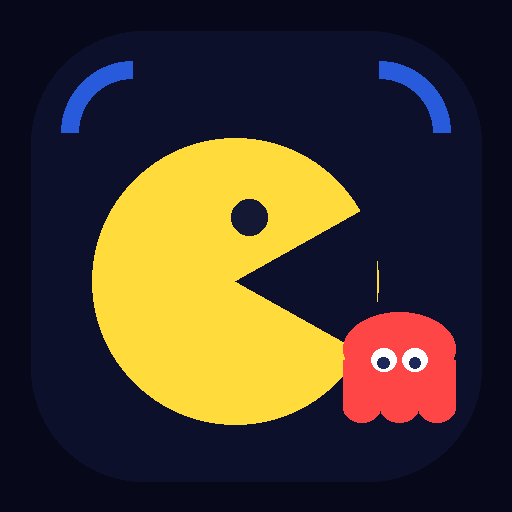
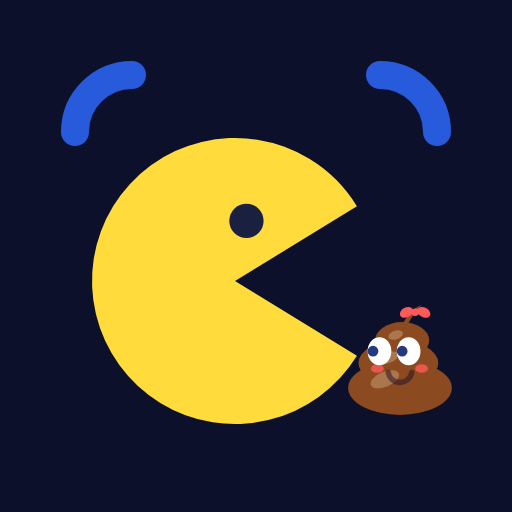
Draw enemies as cute canvas poop characters with distinct accents.

diff --git a/game.js b/game.js
@@ -2009,55 +2009,125 @@
     ctx.restore();
   }
 
+  function poopBrown(id) {
+    if (id === "chase") return "#8b4a1f";
+    if (id === "ambush") return "#7a3d16";
+    if (id === "random") return "#9a5a28";
+    if (id === "patrol") return "#6a3418";
+    return "#8b4a1f";
+  }
+
+  function poopPhase(e) {
+    const i = ENEMY_META.findIndex((m) => m.id === e.id);
+    return (i < 0 ? 0 : i) * 1.35;
+  }
+
+  function drawPoopBody(r, body) {
+    ctx.fillStyle = "rgba(20,16,28,0.22)";
+    ctx.beginPath();
+    ctx.ellipse(0, r * 0.82, r * 0.72, r * 0.16, 0, 0, Math.PI * 2);
+    ctx.fill();
+    ctx.fillStyle = body;
+    ctx.beginPath();
+    ctx.ellipse(0, r * 0.48, r * 0.96, r * 0.5, 0, 0, Math.PI * 2);
+    ctx.fill();
+    ctx.beginPath();
+    ctx.ellipse(-r * 0.03, r * 0.02, r * 0.74, r * 0.42, 0, 0, Math.PI * 2);
+    ctx.fill();
+    ctx.beginPath();
+    ctx.ellipse(r * 0.04, -r * 0.4, r * 0.5, r * 0.34, 0, 0, Math.PI * 2);
+    ctx.fill();
+    ctx.beginPath();
+    ctx.moveTo(r * 0.02, -r * 0.66);
+    ctx.quadraticCurveTo(r * 0.2, -r * 0.98, r * 0.4, -r * 1.06);
+    ctx.quadraticCurveTo(r * 0.22, -r * 0.86, r * 0.1, -r * 0.62);
+    ctx.closePath();
+    ctx.fill();
+    ctx.fillStyle = "rgba(255,230,200,0.28)";
+    ctx.beginPath();
+    ctx.ellipse(-r * 0.28, r * 0.32, r * 0.28, r * 0.14, -0.4, 0, Math.PI * 2);
+    ctx.fill();
+    ctx.beginPath();
+    ctx.ellipse(-r * 0.22, -r * 0.08, r * 0.2, r * 0.1, -0.35, 0, Math.PI * 2);
+    ctx.fill();
+    ctx.beginPath();
+    ctx.ellipse(-r * 0.08, -r * 0.5, r * 0.14, r * 0.08, -0.3, 0, Math.PI * 2);
+    ctx.fill();
+  }
+
+  function drawPoopBow(r, color) {
+    ctx.fillStyle = color;
+    const cx = r * 0.28, cy = -r * 0.92;
+    ctx.beginPath();
+    ctx.ellipse(cx - r * 0.16, cy, r * 0.13, r * 0.09, -0.5, 0, Math.PI * 2);
+    ctx.fill();
+    ctx.beginPath();
+    ctx.ellipse(cx + r * 0.16, cy, r * 0.13, r * 0.09, 0.5, 0, Math.PI * 2);
+    ctx.fill();
+    ctx.beginPath();
+    ctx.arc(cx, cy, r * 0.07, 0, Math.PI * 2);
+    ctx.fill();
+  }
+
   function drawEnemy(e) {
     const ox = -camX * tile, oy = -camY * tile;
     const px = ox + (e.x + 0.5) * tile;
     const py = oy + (e.y + 0.5) * tile;
-    if (px < -tile || py < -tile || px > viewW + tile || py > viewH + tile) return;
+    if (px < -tile || py < -tile * 1.2 || px > viewW + tile || py > viewH + tile) return;
     const r = tile * 0.4;
     const frightened = powerT > 0 && !e.eaten;
     const blink = frightened && powerT < 2.2 && Math.floor(flash * 8) % 2 === 0;
-    let body = e.color;
-    if (e.eaten) body = "rgba(220,230,255,0.0)";
-    else if (frightened) body = blink ? "#fff4d0" : "#6aa8ff";
+    let body = poopBrown(e.id);
+    if (frightened) body = blink ? "#fff4d0" : "#8ec6ff";
+    const bounce = (e.eaten || prefersReducedMotion()) ? 0 : Math.sin(flash * 7 + poopPhase(e)) * r * 0.14;
     ctx.save();
-    ctx.translate(px, py);
+    ctx.translate(px, py + bounce);
     if (!e.eaten) {
-      ctx.fillStyle = body;
+      drawPoopBody(r, body);
+      if (!frightened) drawPoopBow(r, e.color);
+      ctx.globalAlpha = frightened ? 1 : 0.8;
+      ctx.fillStyle = frightened ? "rgba(120,90,140,0.35)" : e.color;
       ctx.beginPath();
-      ctx.arc(0, -r * 0.1, r, Math.PI, 0);
-      ctx.lineTo(r, r * 0.75);
-      const scallop = 3;
-      for (let i = scallop; i >= 0; i--) {
-        const sx = -r + (i / scallop) * (r * 2);
-        const sy = r * (i % 2 === 0 ? 0.75 : 0.4);
-        ctx.lineTo(sx, sy);
-      }
-      ctx.closePath();
+      ctx.ellipse(-r * 0.42, r * 0.12, r * 0.12, r * 0.08, 0, 0, Math.PI * 2);
+      ctx.ellipse(r * 0.4, r * 0.12, r * 0.12, r * 0.08, 0, 0, Math.PI * 2);
       ctx.fill();
-      // smile when not frightened
-      if (!frightened) {
-        ctx.strokeStyle = "rgba(40,20,40,0.35)";
-        ctx.lineWidth = 1.6;
+      ctx.globalAlpha = 1;
+      if (frightened) {
+        ctx.strokeStyle = "#203060";
+        ctx.lineWidth = Math.max(1.4, r * 0.1);
+        ctx.lineCap = "round";
         ctx.beginPath();
-        ctx.arc(0, r * 0.15, r * 0.28, 0.15, Math.PI - 0.15);
+        ctx.moveTo(-r * 0.42, -r * 0.5);
+        ctx.lineTo(-r * 0.14, -r * 0.38);
+        ctx.moveTo(r * 0.44, -r * 0.5);
+        ctx.lineTo(r * 0.16, -r * 0.38);
+        ctx.stroke();
+        ctx.beginPath();
+        ctx.arc(0, r * 0.2, r * 0.12, 0, Math.PI * 2);
+        ctx.stroke();
+      } else {
+        ctx.strokeStyle = "rgba(40,20,40,0.55)";
+        ctx.lineWidth = Math.max(1.5, r * 0.1);
+        ctx.lineCap = "round";
+        ctx.beginPath();
+        ctx.arc(0, r * 0.16, r * 0.22, 0.15, Math.PI - 0.15);
         ctx.stroke();
       }
     }
-    // eyes
     const eyesDX = (e.dir && e.dir.x) * r * 0.12;
     const eyesDY = (e.dir && e.dir.y) * r * 0.12;
     const ew = r * 0.22, eh = r * 0.26;
+    const ey = -r * 0.2;
     ctx.fillStyle = "#fff";
     ctx.beginPath();
-    ctx.ellipse(-r * 0.28 + eyesDX, -r * 0.22 + eyesDY, ew, eh, 0, 0, Math.PI * 2);
-    ctx.ellipse(r * 0.28 + eyesDX, -r * 0.22 + eyesDY, ew, eh, 0, 0, Math.PI * 2);
+    ctx.ellipse(-r * 0.26 + eyesDX, ey + eyesDY, ew, eh, 0, 0, Math.PI * 2);
+    ctx.ellipse(r * 0.28 + eyesDX, ey + eyesDY, ew, eh, 0, 0, Math.PI * 2);
     ctx.fill();
     ctx.fillStyle = e.eaten || frightened ? "#203060" : "#243a80";
     const pr = r * 0.1;
     ctx.beginPath();
-    ctx.arc(-r * 0.28 + eyesDX * 2, -r * 0.22 + eyesDY * 2, pr, 0, Math.PI * 2);
-    ctx.arc(r * 0.28 + eyesDX * 2, -r * 0.22 + eyesDY * 2, pr, 0, Math.PI * 2);
+    ctx.arc(-r * 0.26 + eyesDX * 2, ey + eyesDY * 2, pr, 0, Math.PI * 2);
+    ctx.arc(r * 0.28 + eyesDX * 2, ey + eyesDY * 2, pr, 0, Math.PI * 2);
     ctx.fill();
     ctx.restore();
   }
@@ -2503,6 +2573,15 @@
       };
     },
     startBike() { startBike(); return this.getBikeState(); },
+    setPower(t) { powerT = Math.max(0, t || 0); if (powerT <= 0) eatStreak = 0; },
+    setFlash(t) { flash = t || 0; },
+    placeEnemy(i, x, y, dir) {
+      const e = enemies[i];
+      if (!e) return false;
+      e.x = x; e.y = y;
+      if (dir && DIRS[dir]) e.dir = DIRS[dir];
+      return true;
+    },
     getCaughtFxState() {
       return {
         active: !!(el.caughtFx && el.caughtFx.classList.contains("active")),
@@ -2525,6 +2604,8 @@
           msgT -= dt;
           if (msgT <= 0 && el.message) el.message.textContent = "";
         }
+        flash += dt;
+        mouth += dt;
         if (mode === "play" && level) {
           updateHorses(dt);
           if (dying) {

diff --git a/sw.js b/sw.js
@@ -1,4 +1,4 @@
-const CACHE = "maze-chase-v17";
+const CACHE = "maze-chase-v18";
 const ASSETS = [
   "./",
   "./index.html",
